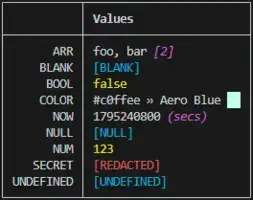
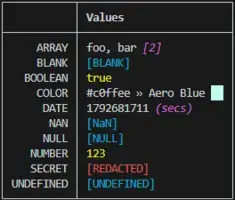
chore: update packages feat: NaN feat: handle hex formats docs: updates/image

diff --git a/index.ts b/index.ts
@@ -1,4 +1,4 @@
-import { bgBlue, bgHex, bgRed, cyan, magenta, red, white } from "ansis"
+import { bgBlue, bgRed, cyan, magenta, red, white } from "ansis"
 import { isBrowser } from "browser-or-node"
 import { default as dayjs } from "dayjs"
 import { match } from "ts-pattern"
@@ -72,14 +72,16 @@ type VarsType = Record<string, string | number | boolean | Date | string[] | und
 const printVars = async <T extends VarsType>(vars: NonEmpty<T>, redacted: (keyof T)[] = []): Promise<void> => {
   const varsCopy: VarsType = { ...vars } satisfies VarsType
 
-  try {
-    const color: string = String(vars["COLOR"] ?? "")
-    if (color.length > 0) {
+  const color: string = String(vars["COLOR"] ?? "")
+  if (color.length > 0) {
+    const { TinyColor } = await import("@ctrl/tinycolor")
+    const c = new TinyColor(color)
+    if (c.isValid) {
       const { GetColorName: getColorName } = await import("hex-color-to-color-name")
-      varsCopy["COLOR"] = `${color} » ${getColorName(color)} ${bgHex(color)("  ")}`
+      const { bgHex } = await import("ansis")
+      const cHex: string = c.toHexString()
+      varsCopy["COLOR"] = `${c.toHexShortString()} » ${getColorName(cHex)} ${bgHex(cHex)("  ")}`
     }
-  } catch {
-    // * NOTE: Do nothing if vars["COLOR"] is undefined
   }
 
   type V = T[keyof T]
@@ -110,8 +112,8 @@ const printVars = async <T extends VarsType>(vars: NonEmpty<T>, redacted: (keyof
             }
           )
           .when(
-            (n: unknown): n is number => typeof n === "number" && !Number.isNaN(n),
-            (n: number): number => n
+            (n: unknown): n is number => typeof n === "number",
+            (n: number): string | number => (Number.isNaN(n) ? cyan("[NaN]") : n)
           )
           .when(
             (b: unknown): b is boolean => typeof b === "boolean",

diff --git a/tests/index.test.ts b/tests/index.test.ts
@@ -56,16 +56,17 @@ describe("index.ts", (): void => {
     expect(dirSpy).toHaveBeenCalledTimes(NUM_TIMES_ERROR)
   })
 
-  test("printVars", async (): Promise<void> => {
+  test("printVars pass", async (): Promise<void> => {
     await printVars(
       {
-        ARR: ["foo", "bar"],
+        ARRAY: ["foo", "bar"],
         BLANK: "",
-        BOOL: false,
+        BOOLEAN: true,
         COLOR: "#c0ffee",
-        NOW: new Date(),
+        DATE: new Date(),
+        NAN: Number.NaN,
         NULL: null,
-        NUM: 123,
+        NUMBER: 123,
         SECRET: "!",
         UNDEFINED: undefined
       },

diff --git a/README.md b/README.md
@@ -1,17 +1,19 @@
+<!-- cSpell: ignore RGBA -->
+
 # @postfmly/logger
 
 ### Info/error/variable console logger <!-- markdownlint-disable MD001 -->
 
 - Handles primitives and objects
 
-###### NOTE: `printVars()` supports `string`, `number`, `boolean`, `Date`, `string[]`, `undefined`, `null`
+###### NOTE: `printVars()` supports `string`, `number`/`NaN`, `boolean`, `Date`, `string[]`, `undefined`, `null`
 
 ---
 
-![Bun](https://img.shields.io/badge/Bun-1.4.3-informational?style=plastic&logo=bun "Bun")
+![Bun](https://img.shields.io/badge/Bun-1.4.4-informational?style=plastic&logo=bun "Bun")
 
 ![CodeQL](https://github.com/chump29/logger/workflows/CodeQL/badge.svg "CodeQL") &nbsp;
-![Coverage](https://img.shields.io/badge/Coverage-98.96%25-success?style=plastic&logo=jest "Coverage")
+![Coverage](https://img.shields.io/badge/Coverage-98.91%25-success?style=plastic&logo=jest "Coverage")
 
 ![NO AI](https://img.shields.io/badge/NO-AI-orange?style=plastic "NO AI") &nbsp;
 ![License](https://img.shields.io/github/license/chump29/logger?style=plastic&color=blueviolet&label=License&logo=gplv3 "GPLv3") &nbsp; <!-- markdownlint-disable MD013 -->
@@ -36,19 +38,22 @@ error("test", ["me"], new Error("foo"), null)
 
 printVars(
   {
-    ARR: ["foo", "bar"],
+    ARRAY: ["foo", "bar"],
     BLANK: "",
-    BOOL: false,
-    COLOR: "#c0ffee",
-    NOW: new Date(2026, 10, 21),
+    BOOLEAN: true,
+    COLOR: "#c0ffee", // NOTE: key must be named COLOR for advanced output
+    DATE: new Date(),
+    NAN: Number.NaN,
     NULL: null,
-    NUM: 123,
-    SECRET: "SECRET",
+    NUMBER: 123,
+    SECRET: "!",
     UNDEFINED: undefined
   },
   ["SECRET"]
 )
 ```
+
+###### NOTE: Acceptable `COLOR` formats @ [GitHub](https://github.com/scttcper/tinycolor#accepted-string-input "GitHub")
 
 #### Output:
 

diff --git a/docs/README.template.md b/docs/README.template.md
@@ -1,10 +1,12 @@
+<!-- cSpell: ignore RGBA -->
+
 # @postfmly/logger
 
 ### Info/error/variable console logger <!-- markdownlint-disable MD001 -->
 
 - Handles primitives and objects
 
-###### NOTE: `printVars()` supports `string`, `number`, `boolean`, `Date`, `string[]`, `undefined`, `null`
+###### NOTE: `printVars()` supports `string`, `number`/`NaN`, `boolean`, `Date`, `string[]`, `undefined`, `null`
 
 ---
 
@@ -36,19 +38,22 @@ error("test", ["me"], new Error("foo"), null)
 
 printVars(
   {
-    ARR: ["foo", "bar"],
+    ARRAY: ["foo", "bar"],
     BLANK: "",
-    BOOL: false,
-    COLOR: "#c0ffee",
-    NOW: new Date(2026, 10, 21),
+    BOOLEAN: true,
+    COLOR: "#c0ffee", // NOTE: key must be named COLOR for advanced output
+    DATE: new Date(),
+    NAN: Number.NaN,
     NULL: null,
-    NUM: 123,
-    SECRET: "SECRET",
+    NUMBER: 123,
+    SECRET: "!",
     UNDEFINED: undefined
   },
   ["SECRET"]
 )
 ```
+
+###### NOTE: Acceptable `COLOR` formats @ [GitHub](https://github.com/scttcper/tinycolor#accepted-string-input "GitHub")
 
 #### Output:
 
